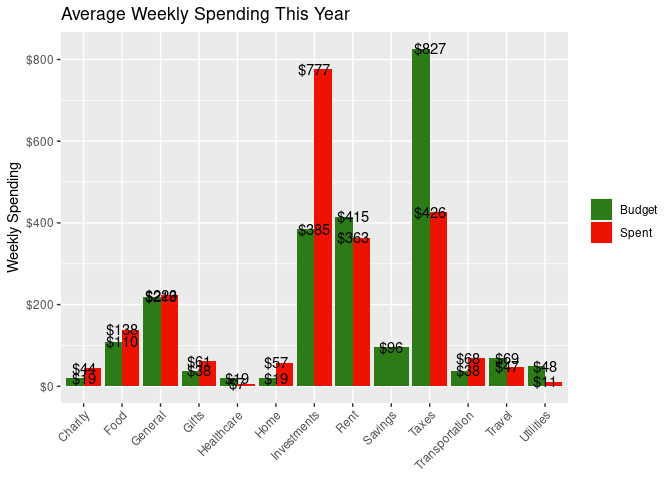
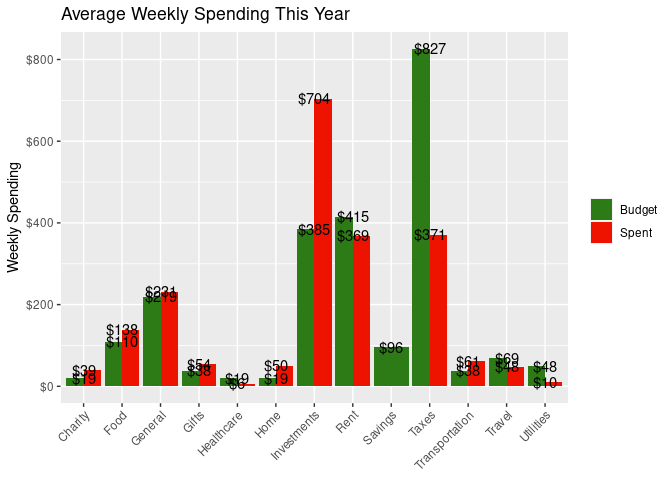
february update

diff --git a/budget_report.md b/budget_report.md
@@ -1,11 +1,11 @@
 Callan’s Budget
 ================
 Callan Hoskins
-2022-02-13
+2022-03-12
 
 ![](budget_report_files/figure-gfm/unnamed-chunk-3-1.png)<!-- -->
 
-Your yearly deficit so far is $2230.0924267, or 0.0356567%.
+Your yearly deficit so far is $6944.2355037, or 0.0967698%.
 
 ![](budget_report_files/figure-gfm/unnamed-chunk-5-1.png)<!-- -->
 
